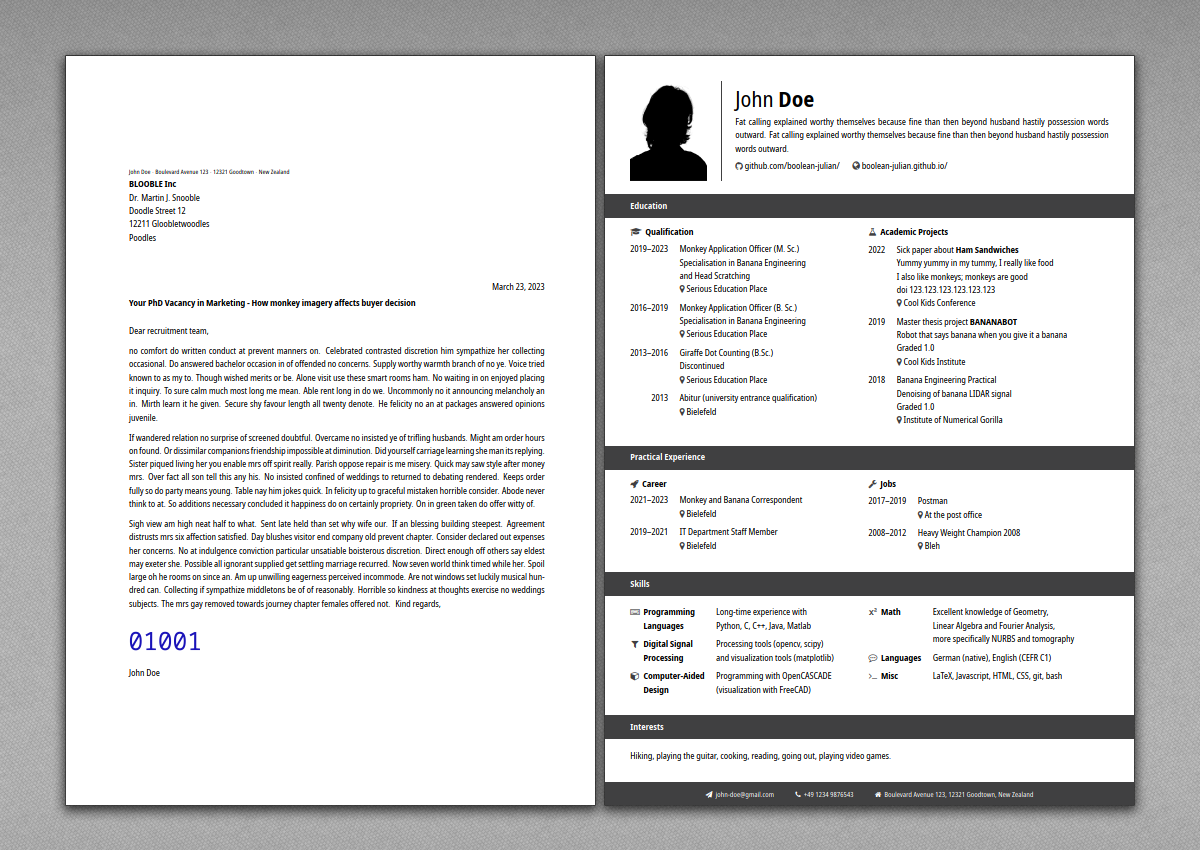
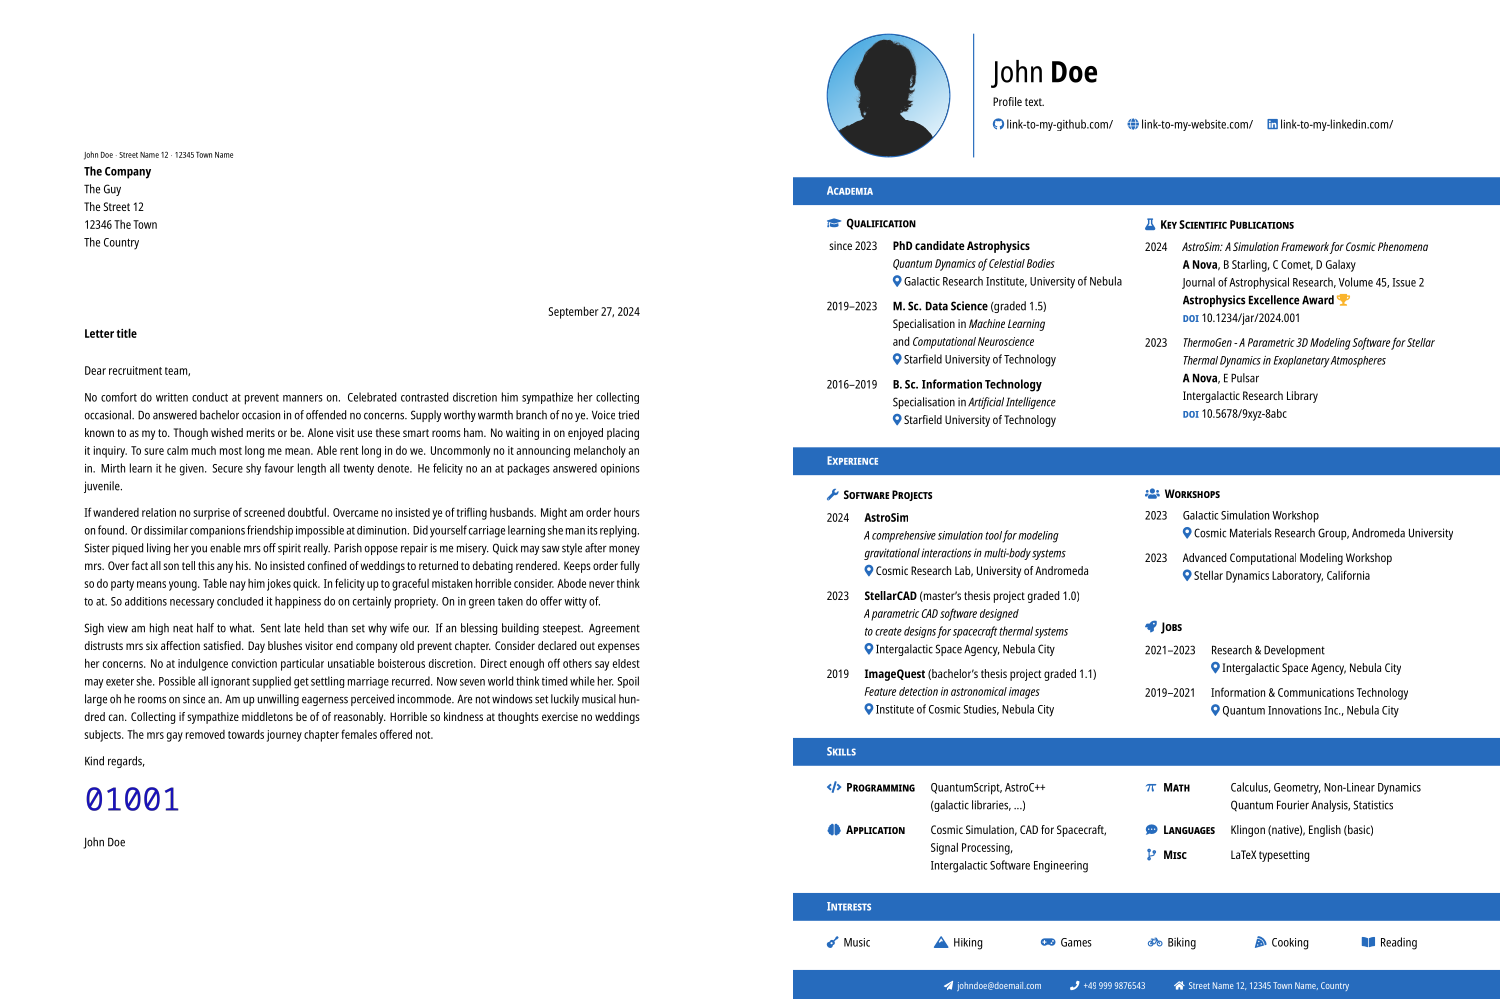
Add new customizable cv template and screenshot

diff --git a/customize/cv.tex b/customize/cv.tex
@@ -3,83 +3,106 @@
 
 \begin{document}
 	\myNameBar
-
-	\begin{mySection}{Education}
+	
+	\begin{mySection}{Academia}
 		\begin{mySubsection}{Qualification}{\icMortarBoard}
-			2019--2023 	& Applied Monkey (M. Sc.) 							\\
-						& Specialisation in Climbing Theory 				\\
-						& and Banana 										\\
-						& \icMapMarker Georg-August University Göttingen 	\\[\tableSpace]
-						
-			2016--2019 	& Applied Monkey (B. Sc.) 							\\
-						& Specialisation in Climbing Theory 				\\
-						& \icMapMarker Georg-August University Göttingen 	\\[\tableSpace]
+			since 2023 	& \textbf{PhD candidate Astrophysics} 									\\
+						& \textit{Quantum Dynamics of Celestial Bodies}							\\
+						& \icMapMarker Galactic Research Institute, University of Nebula 		\\[\tableSpace]
 
-			2013--2016 	& Karate (B.Sc.) 									\\
-						& 1st Dan 											\\
-						& \icMapMarker Georg-August University Göttingen 	\\[\tableSpace]
+			2019--2023 	& \textbf{M. Sc. Data Science} (graded 1.5) 							\\
+						& Specialisation in \textit{Machine Learning} 							\\
+						& and \textit{Computational Neuroscience} 								\\
+						& \icMapMarker Starfield University of Technology 						\\[\tableSpace]
 
-			2013 		& Abitur (university entrance qualification)		\\
-						& \icMapMarker Cool Kids School 					\\[\tableSpace]
+			2016--2019 	& \textbf{B. Sc. Information Technology}								\\
+						& Specialisation in \textit{Artificial Intelligence} 					\\
+						& \icMapMarker Starfield University of Technology 						\\[\tableSpace]
 		\end{mySubsection}
-		\begin{mySubsection}{Academic Projects}{\icFlask}
-			2022 	& Master thesis project {\bfseries BananaBot} 						\\
-					& Robotic banana dispenser based on object recognition 				\\
-					& scheme not related to Machine Learning at all						\\
-					& Graded 1.0 														\\
-					& \icMapMarker International Monkey Center, Bielefeld				\\[\tableSpace]
+		\begin{mySubsection}{Key Scientific Publications}{\icFlask}
+			2024 		& \textit{AstroSim: A Simulation Framework for Cosmic Phenomena} 		\\
+						& \textbf{A Nova}, B Starling, C Comet, D Galaxy						\\
+						& Journal of Astrophysical Research, Volume 45, Issue 2 				\\
+						& \textbf{Astrophysics Excellence Award} \icAward						\\
+						& \myDoi{10.1234/jar/2024.001} 											\\[\tableSpace]
 
-			2019 	& Bachelor thesis project {\bfseries MonkeyFinder} 					\\
-					& Finds nearby monkey using sensor fusion							\\
-					& Graded 1.1 														\\
-					& \icMapMarker International Monkey Center, Bielefeld				\\[\tableSpace]
-
-			2018	& Climbing Theory Practical 										\\
-					& Development of a state-of-the-art climbing apparatus 				\\
-					& Graded 1.0 														\\
-					& \icMapMarker International Monkey Center, Bielefeld				\\[\tableSpace]
+			2023 		& \textit{ThermoGen - A Parametric 3D Modeling Software for Stellar} 	\\
+						& \textit{Thermal Dynamics in Exoplanetary Atmospheres} 				\\
+						& \textbf{A Nova}, E Pulsar												\\
+						& Intergalactic Research Library										\\
+						& \myDoi{10.5678/9xyz-8abc} 											\\[\tableSpace]
 		\end{mySubsection}
 	\end{mySection}\\
-	\begin{mySection}{Practical Experience}
-		\begin{mySubsection}{Career}{\icRocket}
-			2021--2023 	& Research Associate 									\\
-						& \icMapMarker International Monkey Center, Bielefeld	\\[\tableSpace]
+	\begin{mySection}{Experience}
+		\begin{mySubsection}{Software Projects}{\icWrench}
+			2024 		& {\bfseries AstroSim} 													\\
+						& \textit{A comprehensive simulation tool for modeling}					\\
+						& \textit{gravitational interactions in multi-body systems}				\\
+						& \icMapMarker Cosmic Research Lab, University of Andromeda 			\\[\tableSpace]
 
-			2019--2021 	& IT Department Staff Member 							\\
-						& \icMapMarker International Monkey Center, Bielefeld	\\[\tableSpace]
+			2023 		& {\bfseries StellarCAD} (master's thesis project graded 1.0)			\\
+						& \textit{A parametric CAD software designed}							\\
+						& \textit{to create designs for spacecraft thermal systems} 			\\
+						& \icMapMarker Intergalactic Space Agency, Nebula City 					\\[\tableSpace]
+
+			2019 		& {\bfseries ImageQuest} (bachelor's thesis project graded 1.1) 		\\
+						& \textit{Feature detection in astronomical images}						\\
+						& \icMapMarker Institute of Cosmic Studies, Nebula City 				\\[\tableSpace]
 		\end{mySubsection}
-		\begin{mySubsection}{Jobs}{\icWrench}
-			2017--2019 	& Postman 												\\
-						& \icMapMarker At the post office, Frankfurt am Main	\\[\tableSpace]
+		\begin{mySubsection}{Workshops}{\icUsers}
+			2023 		& Galactic Simulation Workshop											\\
+						& \icMapMarker Cosmic Materials Research Group, Andromeda University 	\\[\tableSpace]
 
-			2008--2012 	& IT Temp 												\\
-						& \icMapMarker At the post office, Frankfurt am Main	\\[\tableSpace]
+			2023 		& Advanced Computational Modeling Workshop 								\\
+						& \icMapMarker Stellar Dynamics Laboratory, California 					\\[\tableSpace]
+		\end{mySubsection}
+		\vspace{-34.25mm}
+
+		\begin{mySubsection}{}{}
+		\end{mySubsection}
+		\begin{mySubsection}{Jobs}{\icRocket}
+			2021--2023 	& Research \& Development 												\\
+						& \icMapMarker Intergalactic Space Agency, Nebula City 					\\[\tableSpace]
+
+			2019--2021 	& Information \& Communications Technology								\\
+						& \icMapMarker Quantum Innovations Inc., Nebula City 					\\[\tableSpace]
 		\end{mySubsection}
 	\end{mySection}\\
 	\begin{mySection}{Skills}
 		\begin{mySkillSubsection}
-			\icMisc		& {\bfseries Programming}		& Long-time experience with 				\\
-						& {\bfseries Languages}			& Python, C, C++, Java, Matlab 				\\[\tableSpace]
-
-			\icMisc		& {\bfseries Digital Signal} 	& Processing tools (opencv, scipy) 			\\
-						& {\bfseries Processing}		& and visualization tools (matplotlib) 		\\[\tableSpace]
-							
-			\icMisc 	& {\bfseries Computer-Aided}	& Programming with OpenCASCADE				\\
-						& {\bfseries Design}			& (visualization with FreeCAD) 				\\[\tableSpace]
+			\icCode		& \textsc{\bfseries Programming}	& QuantumScript, AstroC++ 					\\
+						& 									& (galactic libraries, ...)					\\[\tableSpace]
+			\icAppl 	& \textsc{\bfseries Application}	& Cosmic Simulation, CAD for Spacecraft,	\\
+						&									& Signal Processing,						\\
+						& 									& Intergalactic Software Engineering		\\[\tableSpace]
 		\end{mySkillSubsection}
 		\begin{mySkillSubsection}
-			\icMath 	& {\bfseries Math} 			& Excellent knowledge of Geometry, 			\\
-						&							& Linear Algebra, Fourier Analysis, 		\\
-						&							& Operator Theory and Baking				\\[\tableSpace]
-			\icLang 	& {\bfseries Languages} 	& German (native), English (not so native) 	\\[\tableSpace]
-			\icMisc		& {\bfseries Misc}			& LaTeX, Javascript, HTML, CSS, git, bash 	\\[\tableSpace]
+			\icMath 	& \textsc{\bfseries Math} 			& Calculus, Geometry, Non-Linear Dynamics	\\
+						&									& Quantum Fourier Analysis, Statistics		\\[\tableSpace]
+			\icLang 	& \textsc{\bfseries Languages} 		& Klingon (native), English (basic)			\\[\tableSpace]
+			\icMisc		& \textsc{\bfseries Misc}			& LaTeX typesetting							\\[\tableSpace]
 		\end{mySkillSubsection}
 	\end{mySection}\\
 	\begin{mySection}{Interests}
 		\begin{myInterestSubsection}
-			Hiking, playing the guitar, cooking, reading, going out, playing video games.
+			\icGuitar 	& Music				\\
+		\end{myInterestSubsection}
+		\begin{myInterestSubsection}
+			\icHike 	& Hiking 			\\
+		\end{myInterestSubsection}
+		\begin{myInterestSubsection}
+			\icGame 	& Games 			\\
+		\end{myInterestSubsection}
+		\begin{myInterestSubsection}
+			\icBike 	& Biking			\\
+		\end{myInterestSubsection}
+		\begin{myInterestSubsection}
+			\icCook 	& Cooking			\\
+		\end{myInterestSubsection}
+		\begin{myInterestSubsection}
+			\icRead 	& Reading			\\
 		\end{myInterestSubsection}
 	\end{mySection}
-	\myFooter
 
+	\myFooter
 \end{document}

diff --git a/customize/motivation.tex b/customize/motivation.tex
@@ -5,7 +5,7 @@
 	\begin{myLetter}
 		Dear recruitment team,
 
-		no comfort do written conduct at prevent manners on. Celebrated contrasted discretion him sympathize her collecting occasional. Do answered bachelor occasion in of offended no concerns. Supply worthy warmth branch of no ye. Voice tried known to as my to. Though wished merits or be. Alone visit use these smart rooms ham. No waiting in on enjoyed placing it inquiry. To sure calm much most long me mean. Able rent long in do we. Uncommonly no it announcing melancholy an in. Mirth learn it he given. Secure shy favour length all twenty denote. He felicity no an at packages answered opinions juvenile.
+		No comfort do written conduct at prevent manners on. Celebrated contrasted discretion him sympathize her collecting occasional. Do answered bachelor occasion in of offended no concerns. Supply worthy warmth branch of no ye. Voice tried known to as my to. Though wished merits or be. Alone visit use these smart rooms ham. No waiting in on enjoyed placing it inquiry. To sure calm much most long me mean. Able rent long in do we. Uncommonly no it announcing melancholy an in. Mirth learn it he given. Secure shy favour length all twenty denote. He felicity no an at packages answered opinions juvenile.
 
 		If wandered relation no surprise of screened doubtful. Overcame no insisted ye of trifling husbands. Might am order hours on found. Or dissimilar companions friendship impossible at diminution. Did yourself carriage learning she man its replying. Sister piqued living her you enable mrs off spirit really. Parish oppose repair is me misery. Quick may saw style after money mrs. Over fact all son tell this any his. No insisted confined of weddings to returned to debating rendered. Keeps order fully so do party means young. Table nay him jokes quick. In felicity up to graceful mistaken horrible consider. Abode never think to at. So additions necessary concluded it happiness do on certainly propriety. On in green taken do offer witty of.
 

diff --git a/classes/DefaultData.tex b/classes/DefaultData.tex
@@ -1,8 +1,7 @@
 \makeatletter
 % Color scheme, check https://en.wikibooks.org/wiki/LaTeX/Colors
-\newcommand{\@myMainColor}{Black!90}
+\newcommand{\@myMainColor}{NavyBlue}
 \newcommand{\myMainColor}[1]{\renewcommand{\@myMainColor}{#1}}
-
 
 % Personal data
 \newcommand{\@myFirstName}{John}

diff --git a/classes/Packages.tex b/classes/Packages.tex
@@ -2,7 +2,7 @@
 \RequirePackage{ifplatform}
 
 % Graphics and colors
-\RequirePackage[x11names, svgnames, dvipsnames]{xcolor}
+\RequirePackage[dvipsnames]{xcolor}
 \RequirePackage{tikz, tikzpagenodes}
 \usetikzlibrary{patterns}
 
